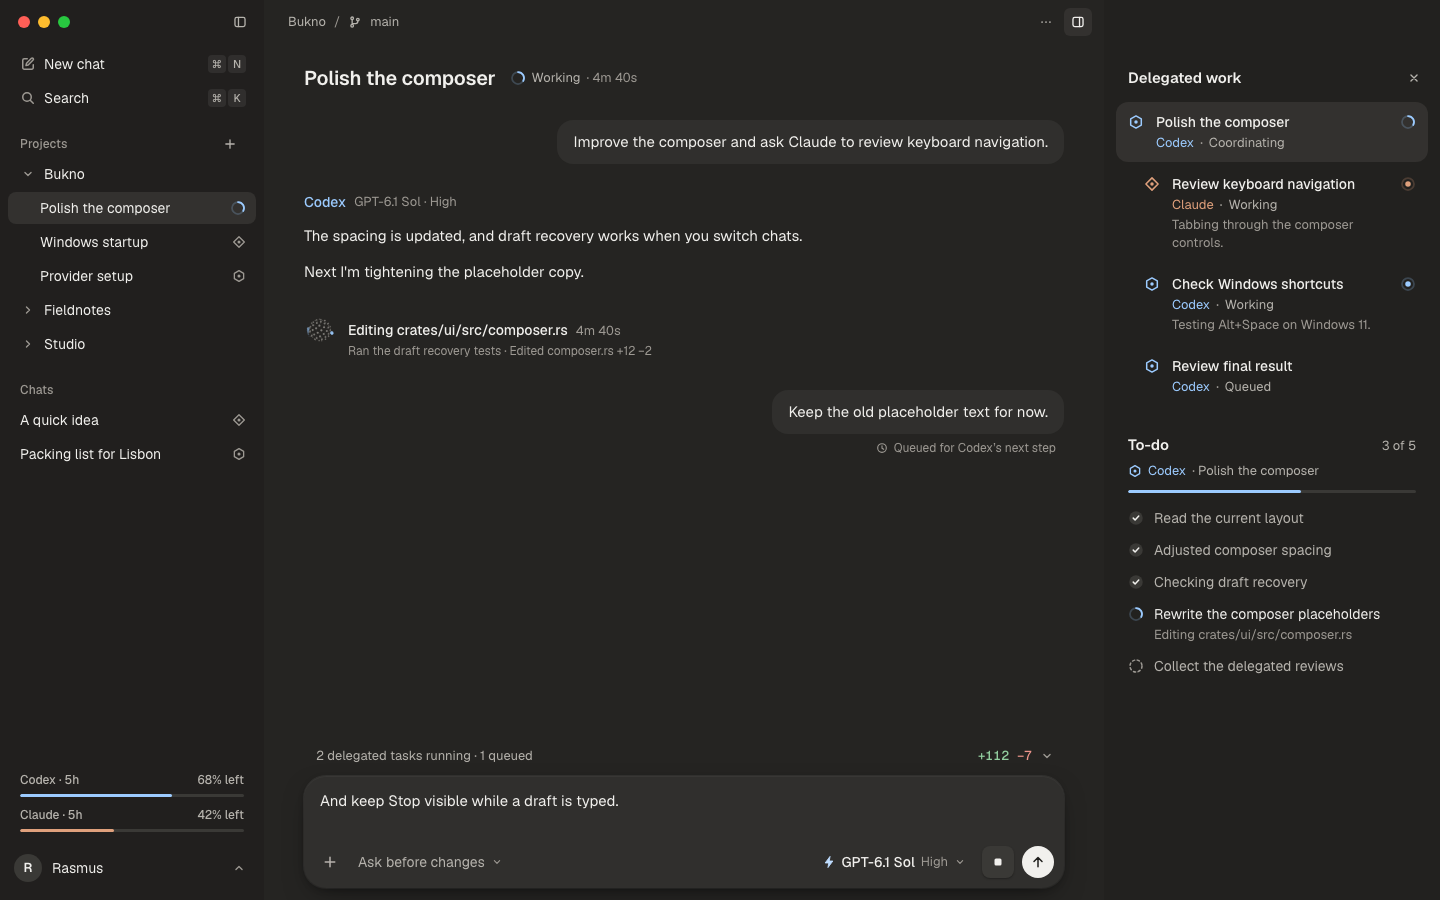
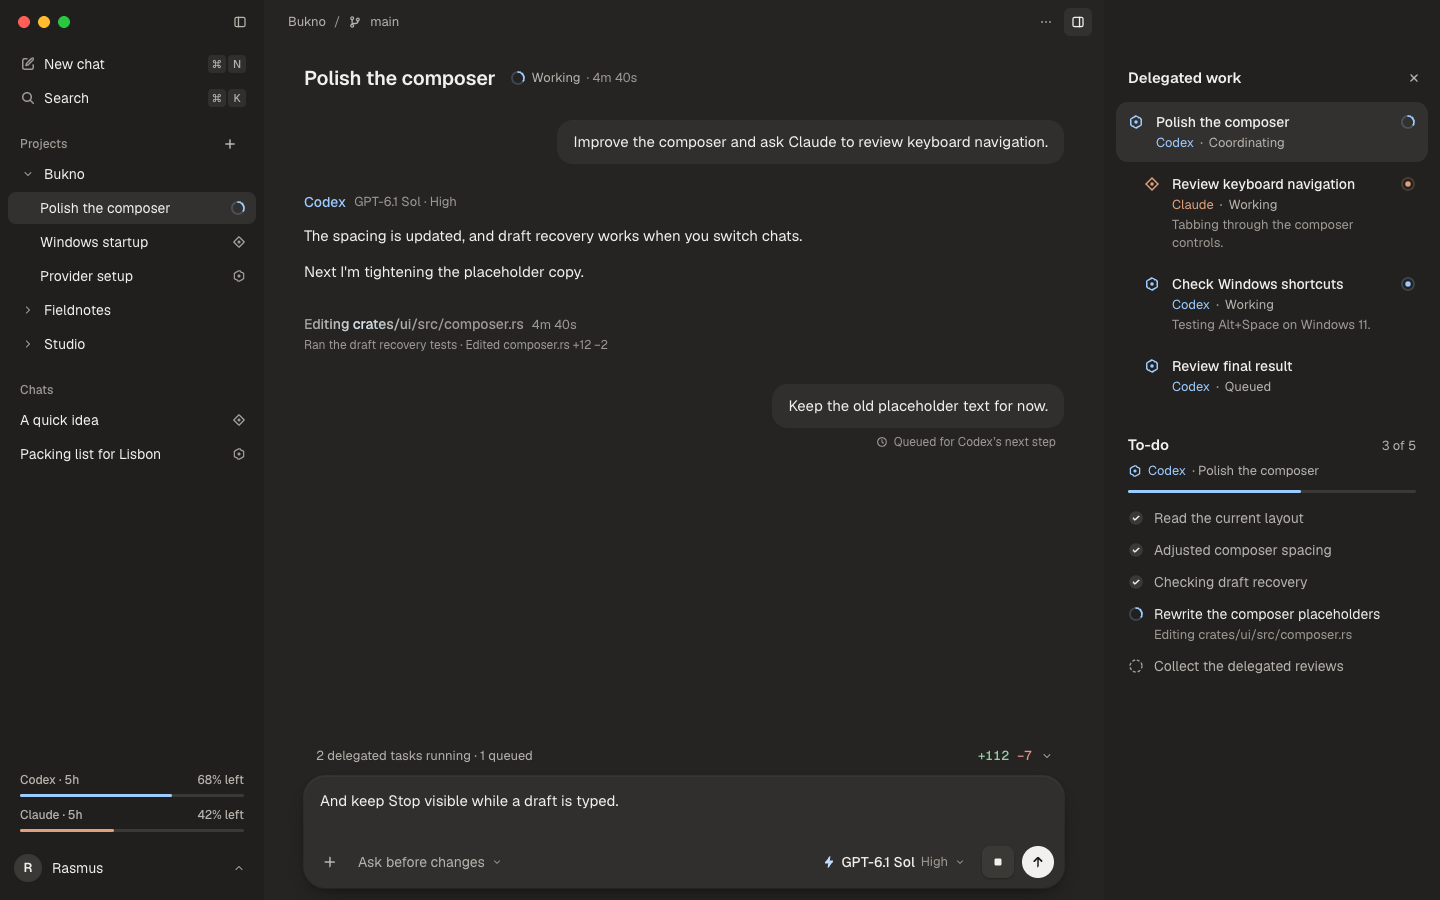
docs(design): adopt the StreakLabel as the working indicator
Decision 35: the activity words with a soft light passing through them
replace the ThinkingOrb, at 10 fps in the native app (2.5 % of one core
measured, against the orb's 5 %). WorkingIndicator defaults to the
streak, the motion rules and component guidelines describe it, the orb
and BuildGrid stay for reference, and the seven journey screens that
showed the orb are re-exported. The viewer gains a streakPhase parameter
so reduced-motion exports still show the light.

Changed region(s): [[0.2188, 0.3422, 0.4375, 0.4044], [0.5312, 0.4356, 0.7188, 0.4978]]

diff --git a/docs/design/system/components/bundle.js b/docs/design/system/components/bundle.js
@@ -717,12 +717,13 @@
     var provider = p.provider === 'claude' ? 'claude' : 'codex';
     var waiting = p.state === 'waiting';
     var style = {};
-    if (p.phase != null) {
+    var phase = p.phase != null ? p.phase : (typeof window !== 'undefined' ? window.BUKNO_STREAK_PHASE : undefined);
+    if (phase != null) {
       var dur = parseFloat(window.getComputedStyle(document.documentElement).getPropertyValue('--loop-streak')) || 2200;
-      style.animationDelay = (-num(p.phase, 0) * dur) + 'ms';
+      style.animationDelay = (-num(phase, 0) * dur) + 'ms';
     }
     return h('span', {
-      className: cx('bk-streak', provider === 'claude' && 'bk-streak--claude', (on(p.still) || p.phase != null) && 'bk-streak--still', waiting && 'bk-streak--waiting', p.className),
+      className: cx('bk-streak', provider === 'claude' && 'bk-streak--claude', (on(p.still) || phase != null) && 'bk-streak--still', phase != null && 'bk-streak--frozen', waiting && 'bk-streak--waiting', p.className),
       style: style
     }, p.children || p.text);
   }
@@ -733,7 +734,8 @@
     var state = p.state || 'thinking';
     var label = p.activity || ORB_STATES[state] || 'Thinking';
     var trail = list(p.trail).map(function (t) { return typeof t === 'string' ? t : t.text; });
-    var streak = p.mark === 'streak';
+    // The StreakLabel is the default (decision 35); 'orb' and 'grid' are kept for reference.
+    var streak = p.mark !== 'orb' && p.mark !== 'grid';
     var mark = streak ? null : p.mark === 'grid'
       ? h(BuildGrid, { provider: provider, state: state, size: num(p.size, 32), still: p.still })
       : h(ThinkingOrb, { provider: provider, state: state, size: num(p.size, 32), still: p.still });

diff --git a/docs/design/system/components/index.d.ts b/docs/design/system/components/index.d.ts
@@ -109,11 +109,11 @@ export interface ThinkingOrbProps { provider: Provider; state?: 'thinking' | 're
 export declare function ThinkingOrb(props: ThinkingOrbProps): React.ReactElement;
 
 /** The quiet live line at the end of the transcript while an agent works. */
-/** Proposed replacement for ThinkingOrb: a stepped 3 by 3 block grid. */
+/** Reference only: the stepped 3 by 3 block grid proposal. */
 export interface BuildGridProps { provider: Provider; state?: 'thinking' | 'reading' | 'tool' | 'waiting'; size?: number; still?: boolean; step?: number; label?: string }
 export declare function BuildGrid(props: BuildGridProps): React.ReactElement;
 
-/** Proposed working treatment: the activity words with a soft light passing through. */
+/** The working treatment: the activity words with a soft light passing through (default since decision 35). */
 export interface StreakLabelProps { provider: Provider; state?: 'thinking' | 'reading' | 'tool' | 'waiting'; text?: string; children?: React.ReactNode; still?: boolean; phase?: number }
 export declare function StreakLabel(props: StreakLabelProps): React.ReactElement;
 

diff --git a/docs/design/system/components/bundle.css b/docs/design/system/components/bundle.css
@@ -335,8 +335,8 @@ body { margin: 0; background: var(--surface-canvas); color: var(--text-primary);
 @keyframes bk-streak { from { background-position: calc(-1 * var(--streak-width)) 0, 0 0; } to { background-position: calc(100% + var(--streak-width)) 0, 0 0; } }
 .bk-working--streak .bk-working__text { padding-top: 0; }
 @media (prefers-reduced-motion: reduce) {
-  .bk-streak { animation: none !important; background: none !important; color: var(--text-primary) !important; }
-  .bk-working__label, .bk-working__summary, .bk-effortlg__glint, .bk-effortlg--max .bk-effortlg__track { animation: none !important; }
+  .bk-streak:not(.bk-streak--frozen) { animation: none !important; background: none !important; color: var(--text-primary) !important; }
+  .bk-working__label:not(.bk-streak--frozen), .bk-working__summary, .bk-effortlg__glint, .bk-effortlg--max .bk-effortlg__track { animation: none !important; }
 }
 
 /* To-do: the selected agent's plan, in the right panel under Delegated work */

diff --git a/docs/design/system/components/WorkingIndicator/preview.html b/docs/design/system/components/WorkingIndicator/preview.html
@@ -7,7 +7,6 @@
 <script>
   var B = window.Bukno, h = React.createElement;
   ReactDOM.createRoot(document.getElementById('root')).render(h('div', { style: { width: '640px', display: 'flex', flexDirection: 'column', gap: '26px' } },
-    h(B.WorkingIndicator, { mark: 'grid', provider: 'codex', state: 'thinking', activity: 'Thinking', time: '0m 12s', summary: 'Proposed BuildGrid mark. Working out how drafts are restored when you switch chats.' }),
     h(B.WorkingIndicator, { provider: 'codex', state: 'thinking', activity: 'Thinking', time: '0m 12s', summary: 'Working out how drafts are restored when you switch chats.' }),
     h(B.WorkingIndicator, { provider: 'codex', state: 'reading', activity: 'Reading the composer module', time: '0m 40s' }),
     h(B.WorkingIndicator, { provider: 'codex', state: 'tool', activity: 'Testing draft recovery', time: '2m 14s', trail: ['Ran cargo check', 'Edited composer.rs +42 \u22123'] }),

diff --git a/docs/design/journey/viewer.html b/docs/design/journey/viewer.html
@@ -9,6 +9,14 @@
 <link rel="stylesheet" href="../system/components/bundle.css">
 <script src="https://cdnjs.cloudflare.com/ajax/libs/react/18.3.1/umd/react.production.min.js"></script>
 <script src="https://cdnjs.cloudflare.com/ajax/libs/react-dom/18.3.1/umd/react-dom.production.min.js"></script>
+<script>
+  // Screen exports: ?streakPhase=0.35 freezes the StreakLabel light at that
+  // point of its pass, so a reduced-motion export still shows it.
+  (function () {
+    var phase = new URLSearchParams(location.search).get('streakPhase');
+    if (phase !== null && !isNaN(Number(phase))) window.BUKNO_STREAK_PHASE = Number(phase);
+  })();
+</script>
 <script src="../system/components/bundle.js"></script>
 <style>
   body { margin: 0; background: #1b1a19; }

diff --git a/docs/design/system/README.md b/docs/design/system/README.md
@@ -4,7 +4,7 @@ Bukno is a native desktop client for two strong agent harnesses: Codex (through 
 
 - **Quiet chrome, clear state.** Surfaces are warm charcoal and almost flat. The only things that stand out are what is running, what needs you, and what changed.
 - **Provider colour is identity, never decoration.** Blue means Codex and orange means Claude, wherever they appear. They never tint a surface, a border or a neutral control.
-- **One live thing per region.** While you watch a run, the working indicator at the end of the chat is the one moving element there. Everything else states its status in words and still glyphs.
+- **One live thing per region.** While you watch a run, the light passing through the activity words at the end of the chat is the one moving element there. Everything else states its status in words and still glyphs.
 - **Chat is for the conversation.** Messages and replies go in the chat. The agent's to-do list and delegated tasks live in the right panel.
 - **Show what the engine reports.** Plans, tool activity and reasoning summaries come from provider events. Never invent progress, percentages or narration to keep the screen busy.
 - **Group with space, not lines.** Hierarchy comes from spacing, weight, text colour and surface tone. Borders are not a default.
@@ -93,19 +93,19 @@ Motion makes real work legible. It is short, interruptible and tied to events.
 
 | Moment | Treatment |
 |---|---|
-| Run is active, chat in view | The `WorkingIndicator` closes the transcript with a `ThinkingOrb`: a small dotted sphere in warm neutral that turns slowly. The provider colour shows only where the work is: a drifting band of light while thinking, a sweep while reading, two small orbiting points while a tool runs. Text beside it fades in once when it changes and never shimmers. The header chip stays still. |
+| Run is active, chat in view | The `WorkingIndicator` closes the transcript with a `StreakLabel`: the engine's current activity in words ("Reading the composer module") in `text-tertiary`, with a soft 120-point band of light passing through the letters once per `loop-streak`. The light's core carries a faint touch of the provider colour; nothing else is tinted. There is no separate moving mark. The words change only on a new engine event, never to keep the screen busy. The header chip stays still. Native rate: 10 frames a second. |
 | Run is active elsewhere | The ring spins once per `loop-working` on the chat's sidebar row. The plan step in progress shows a still arc. |
 | Child task running | Its dot breathes once per `loop-breathe` in Delegated work. |
 | New provider event | The activity line crossfades over `dur-crossfade`; layout does not move. |
 | Step completes | Settles into the done disc over `dur-settle`, once, then stays still. |
-| Waiting for you | Steady attention glyph, and the orb stops and loses its colour. No pulsing. |
+| Waiting for you | Steady attention glyph, and the light stops; the words rest in `text-secondary`. No pulsing. |
 | Error, stopped or disconnected | The working loop stops. Reconnecting uses a slow dashed ring. |
 | Disclosure | Panels, popovers and the change list open over `dur-standard` with `ease-standard` and close with `ease-exit`. |
 | Highest effort | A highlight sweeps the thick slider and a soft glow breathes around it once per `loop-shimmer`, only while the picker is open. |
 
 With reduced motion, every loop stops and the same glyphs and words remain. Stop repainting when the window is hidden, minimised or idle.
 
-**Proposed, not approved:** two cheaper working treatments to replace the orb, `BuildGrid` (stepped blocks) and `StreakLabel` (a soft light through the activity words, which would change the "never shimmers" rule above). See [08-working-animation-proposal.md](../08-working-animation-proposal.md).
+The `StreakLabel` replaced the `ThinkingOrb` on 1 October 2026 because the orb cost about 5 % of a CPU core in the native app and the streak about 2.5 % ([08-working-animation-proposal.md](../08-working-animation-proposal.md), decision 35). The orb and the `BuildGrid` proposal stay in the component set for reference.
 
 ## Provider identity
 
@@ -129,7 +129,7 @@ The provider marks in `ProviderMark` are **placeholders** (a hexagon for Codex, 
 - **Navigation:** `SectionLabel`, `ProjectRow`, `ChatRow`, `UsageMeter`, `ProfileRow`, `Breadcrumb`.
 - **Conversation:** `UserMessage`, `AgentTurn`, `PlanStep`, `ActivityLine`, `CodeBlock`, `Notice`, `TaskBrief`, `EventLine`.
 - **Composer:** `Composer`, `PermissionControl`, `ModelControl`, `ModelPicker`, `EffortSlider`, `ChangeStrip`, `ApprovalCard`.
-- **Working and planning:** `ThinkingOrb`, `WorkingIndicator`, `TodoList`. Proposed: `BuildGrid`, `StreakLabel`.
+- **Working and planning:** `StreakLabel`, `WorkingIndicator`, `TodoList`. For reference only: `ThinkingOrb`, `BuildGrid`.
 - **Delegation and setup:** `TaskRow`, `EngineCard`.
 
 Each component's guidelines say what the consumer provides. Screens and layout are the consumer's; the components only draw themselves.

diff --git a/docs/design/system/components/StreakLabel/README.md b/docs/design/system/components/StreakLabel/README.md
@@ -1,6 +1,6 @@
 # StreakLabel
 
-Proposed working treatment (not yet approved). The activity words show the work themselves: "Reading the composer module" in a quiet tone, with a soft light passing through the letters. No separate moving mark.
+The working treatment, approved by Rasmus on 1 October 2026 (decision 35). It replaced the `ThinkingOrb`. The activity words show the work themselves: "Reading the composer module" in a quiet tone, with a soft light passing through the letters. No separate moving mark.
 
 - Provide `provider`, `state` and the activity text as children. The text must come from a real engine event (the current tool, file or reasoning summary), never invented narration.
 - Resting text is `text-tertiary`. The light's core is `text-primary` with just over a quarter of the provider colour mixed in, so Codex work glints faintly blue and Claude work faintly orange. The provider colour never tints anything else.
@@ -8,5 +8,7 @@ Proposed working treatment (not yet approved). The activity words show the work 
 - The light is wide and soft. That is deliberate: a soft, slow band looks smooth even when a native renderer draws it at 12 to 15 frames a second, where the orb's crisp dots visibly judder.
 - `waiting`: no light, plain `text-secondary`, beside the attention glyph and "Needs approval".
 - Reduced motion, a hidden window or a finished run: no light, plain text.
-- This changes the rule in the system README that activity text "never shimmers". The streak replaces the orb as the one live element, so the region still has exactly one moving thing.
+- The streak is the one live element at the end of the chat; there is no separate moving mark.
+- Native rate: 10 frames a second (2.5 % of one core measured, against a budget of 3 %). The light moves about 14 points per frame on a typical label, which the soft band hides.
 - `phase` (0 to 1) freezes the light at one point of its pass, for previews and frame strips.
+- `native-10fps.gif` is the native app's rendering at its real 10 fps rate (from the UI check `streak_frame_rates`).

diff --git a/docs/design/08-working-animation-proposal.md b/docs/design/08-working-animation-proposal.md
@@ -1,7 +1,8 @@
 # Working animation proposal
 
-Written 1 October 2026 after Pass 0. Status: **proposed, not approved**. The
-approved design still uses the `ThinkingOrb`. Rasmus chooses.
+Written 1 October 2026 after Pass 0. Status: **decided the same day.** Rasmus
+chose the StreakLabel at 10 frames a second (decision 35). The BuildGrid and
+the ThinkingOrb stay in the component set for reference.
 
 ## Why look again
 
@@ -68,8 +69,11 @@ UI check `working_treatments` (frames at fixed moments plus the redraw
 cadence: orb every 50 ms, BuildGrid only at its 160 ms step boundaries,
 StreakLabel every 67 ms at 15 fps).
 
-Only the BuildGrid meets the 3 % proposal. The StreakLabel comes close at
-12 fps and costs about a third less than the orb at its own rate.
+Follow-up at 10 fps, all samples at their frame cap: **StreakLabel 2.53 to
+2.58 %**, 12 fps 2.95 to 2.96 %, 15 fps 3.7 %. Native recordings at 10, 12,
+15 and 60 fps are produced by the UI check `streak_frame_rates`.
+
+Decision: StreakLabel at 10 fps, under the 3 % budget with some headroom.
 
 ## How to look at them
 
@@ -91,9 +95,10 @@ BUKNO_WORKING_MARK=streak BUKNO_ORB_FPS=12 ~/Library/Caches/bukno/cargo-target/b
 The streak's smoothness at 12 fps needs a look on screen; the stills cannot
 show it.
 
-## If one is approved
+## Done after the decision
 
-Make it the `WorkingIndicator` default, update the motion table in the
-[system README](system/README.md), re-export the journey screens that show
-the orb (2.1, 2.2, 2.3, 3.1 to 3.3, 5.1), and keep `ThinkingOrb` only if
-another place still needs it.
+The `WorkingIndicator` defaults to the StreakLabel, the motion table in the
+[system README](system/README.md) describes it, and the journey screens that
+showed the orb (2.1, 2.2, 2.3, 3.1 to 3.3, 5.1) are re-exported. The native
+app uses it by default at 10 fps; `BUKNO_WORKING_MARK=orb` or `grid` shows the
+others.

diff --git a/docs/decisions.md b/docs/decisions.md
@@ -40,6 +40,7 @@ Project name: Bukno, pronounced “Buck-no”. License: Apache 2.0, superseding 
 32. Recorded 1 October 2026: Bukno works with whatever Codex and Claude Code version is installed, with no version gate. It records the last working version of each engine. If a new version breaks Bukno, the user can switch back to the last working version in one click, and Bukno stays on it until the user chooses to try the latest again. Bukno never changes an engine version without a click. This supersedes the tested-range gate in item 15. Details are in [section 9a of the specification](first-version-specification.md#9a-engine-versions-and-reverting).
 33. Recorded 1 October 2026: the app and its runtime state (database, settings, diagnostics) live on the computer's internal drive for speed and so Bukno always opens. During onboarding the user chooses the work folder for projectless chats, attachments, and outputs, which is also the default location offered for projects. Rasmus will choose a folder on Toshiba. This replaces the earlier single Bukno data root on Toshiba.
 34. Recorded 1 October 2026: when building starts, Claude does the initial scaffolding and interface setup, including Pass 0 and the native component foundation. Sol (gpt-5.6-sol through Codex) then reviews the code and evidence at each pass boundary. Rasmus decides who implements each later pass.
+35. Recorded 1 October 2026: the working indicator is the activity words with a soft light passing through them (`StreakLabel`), at 10 frames a second in the native app. It replaces the `ThinkingOrb` from item 29, which cost about 5 % of a CPU core because egui redraws the whole window for every animation frame; the streak measured 2.5 %. Activity words still come only from real engine events. See [design/08-working-animation-proposal.md](design/08-working-animation-proposal.md).
 
 ## Proposed, not yet selected
 

diff --git a/docs/design/system/components/WorkingIndicator/README.md b/docs/design/system/components/WorkingIndicator/README.md
@@ -1,8 +1,8 @@
 # WorkingIndicator
 
-The quiet live line at the end of the transcript while an agent works: a `ThinkingOrb`, what the agent is doing right now, and its latest reasoning summary.
+The quiet live line at the end of the transcript while an agent works: what the agent is doing right now, carried by a `StreakLabel`, and its latest reasoning summary.
 
-- Provide `mark` (`orb`, the approved default, or `grid` for the proposed `BuildGrid`), `provider`, `state` (`thinking`, `reading`, `tool`, `waiting`), `activity`, optional `summary`, `time`, and optional `trail` (recent events, shown as one quiet line).
-- Only the orb moves. The activity and summary fade in once when they change; nothing shimmers or slides.
+- Provide `provider`, `state` (`thinking`, `reading`, `tool`, `waiting`), `activity`, optional `summary`, `time`, and optional `trail` (recent events, shown as one quiet line).
+- Only the light in the activity words moves. The summary fades in once when it changes and never shimmers. `mark` (`orb` or `grid`) shows the earlier treatments for reference.
 - Show only what the engine reports: tool events, plan updates and public reasoning summaries. Never invent narration to keep it busy.
 - This is the run's one live element while you watch the chat, so the header chip stays still. When reply text starts streaming, the indicator gives way to the text.

diff --git a/docs/design/README.md b/docs/design/README.md
@@ -70,10 +70,10 @@ Then open `http://localhost:8000/journey/viewer.html` for the journey (click a s
 To re-export one screen image with Chrome while the server runs:
 
 ```bash
-"/Applications/Google Chrome.app/Contents/MacOS/Google Chrome" --headless=new --hide-scrollbars --force-prefers-reduced-motion --window-size=1440,900 --virtual-time-budget=5000 --screenshot=docs/design/journey/screens/2-1-codex-at-work.png "http://localhost:8000/journey/viewer.html?screen=CodexWorking"
+"/Applications/Google Chrome.app/Contents/MacOS/Google Chrome" --headless=new --hide-scrollbars --force-prefers-reduced-motion --window-size=1440,900 --virtual-time-budget=5000 --screenshot=docs/design/journey/screens/2-1-codex-at-work.png "http://localhost:8000/journey/viewer.html?screen=CodexWorking&streakPhase=0.35"
 ```
 
-Reduced motion makes the orb draw one still frame. If Chrome does not exit on its own once the image is written, stop it.
+Reduced motion stops every loop; `streakPhase` freezes the working light at one point so the export still shows it. If Chrome does not exit on its own once the image is written, stop it.
 
 ## Editing in Claude Design
 

diff --git a/docs/toolkit-decision.md b/docs/toolkit-decision.md
@@ -69,7 +69,7 @@ Pass 0 blocker.
   afterwards: 160 MB while drawing, 62 MB once idle. Frame times unchanged.
 - Orb frame rate: 29 fps before, 19.5 fps after.
 
-## Budget decision needed: orb CPU
+## Orb CPU budget (resolved by decision 35)
 
 Proposed target: under 3 % of one core with only the orb animating. Measured
 in the packaged app (two samples each):
@@ -94,8 +94,9 @@ Pass 3 experiment with a separately composited native layer for the orb.
 Follow-up the same day: two cheaper treatments are proposed in
 [design/08-working-animation-proposal.md](design/08-working-animation-proposal.md).
 Measured the same way, the stepped BuildGrid uses 1.7 to 2.1 % and the
-StreakLabel at 12 fps uses 3.1 to 3.4 %. Both are behind
-`BUKNO_WORKING_MARK` until one is approved.
+StreakLabel at 12 fps uses 3.1 to 3.4 %. Rasmus chose the StreakLabel at
+10 fps (decision 35): 2.53 to 2.58 % measured, under the budget. It is now
+the default; `BUKNO_WORKING_MARK=orb` or `grid` shows the others.
 
 ## Deviations from the design, recorded rather than hidden
 
